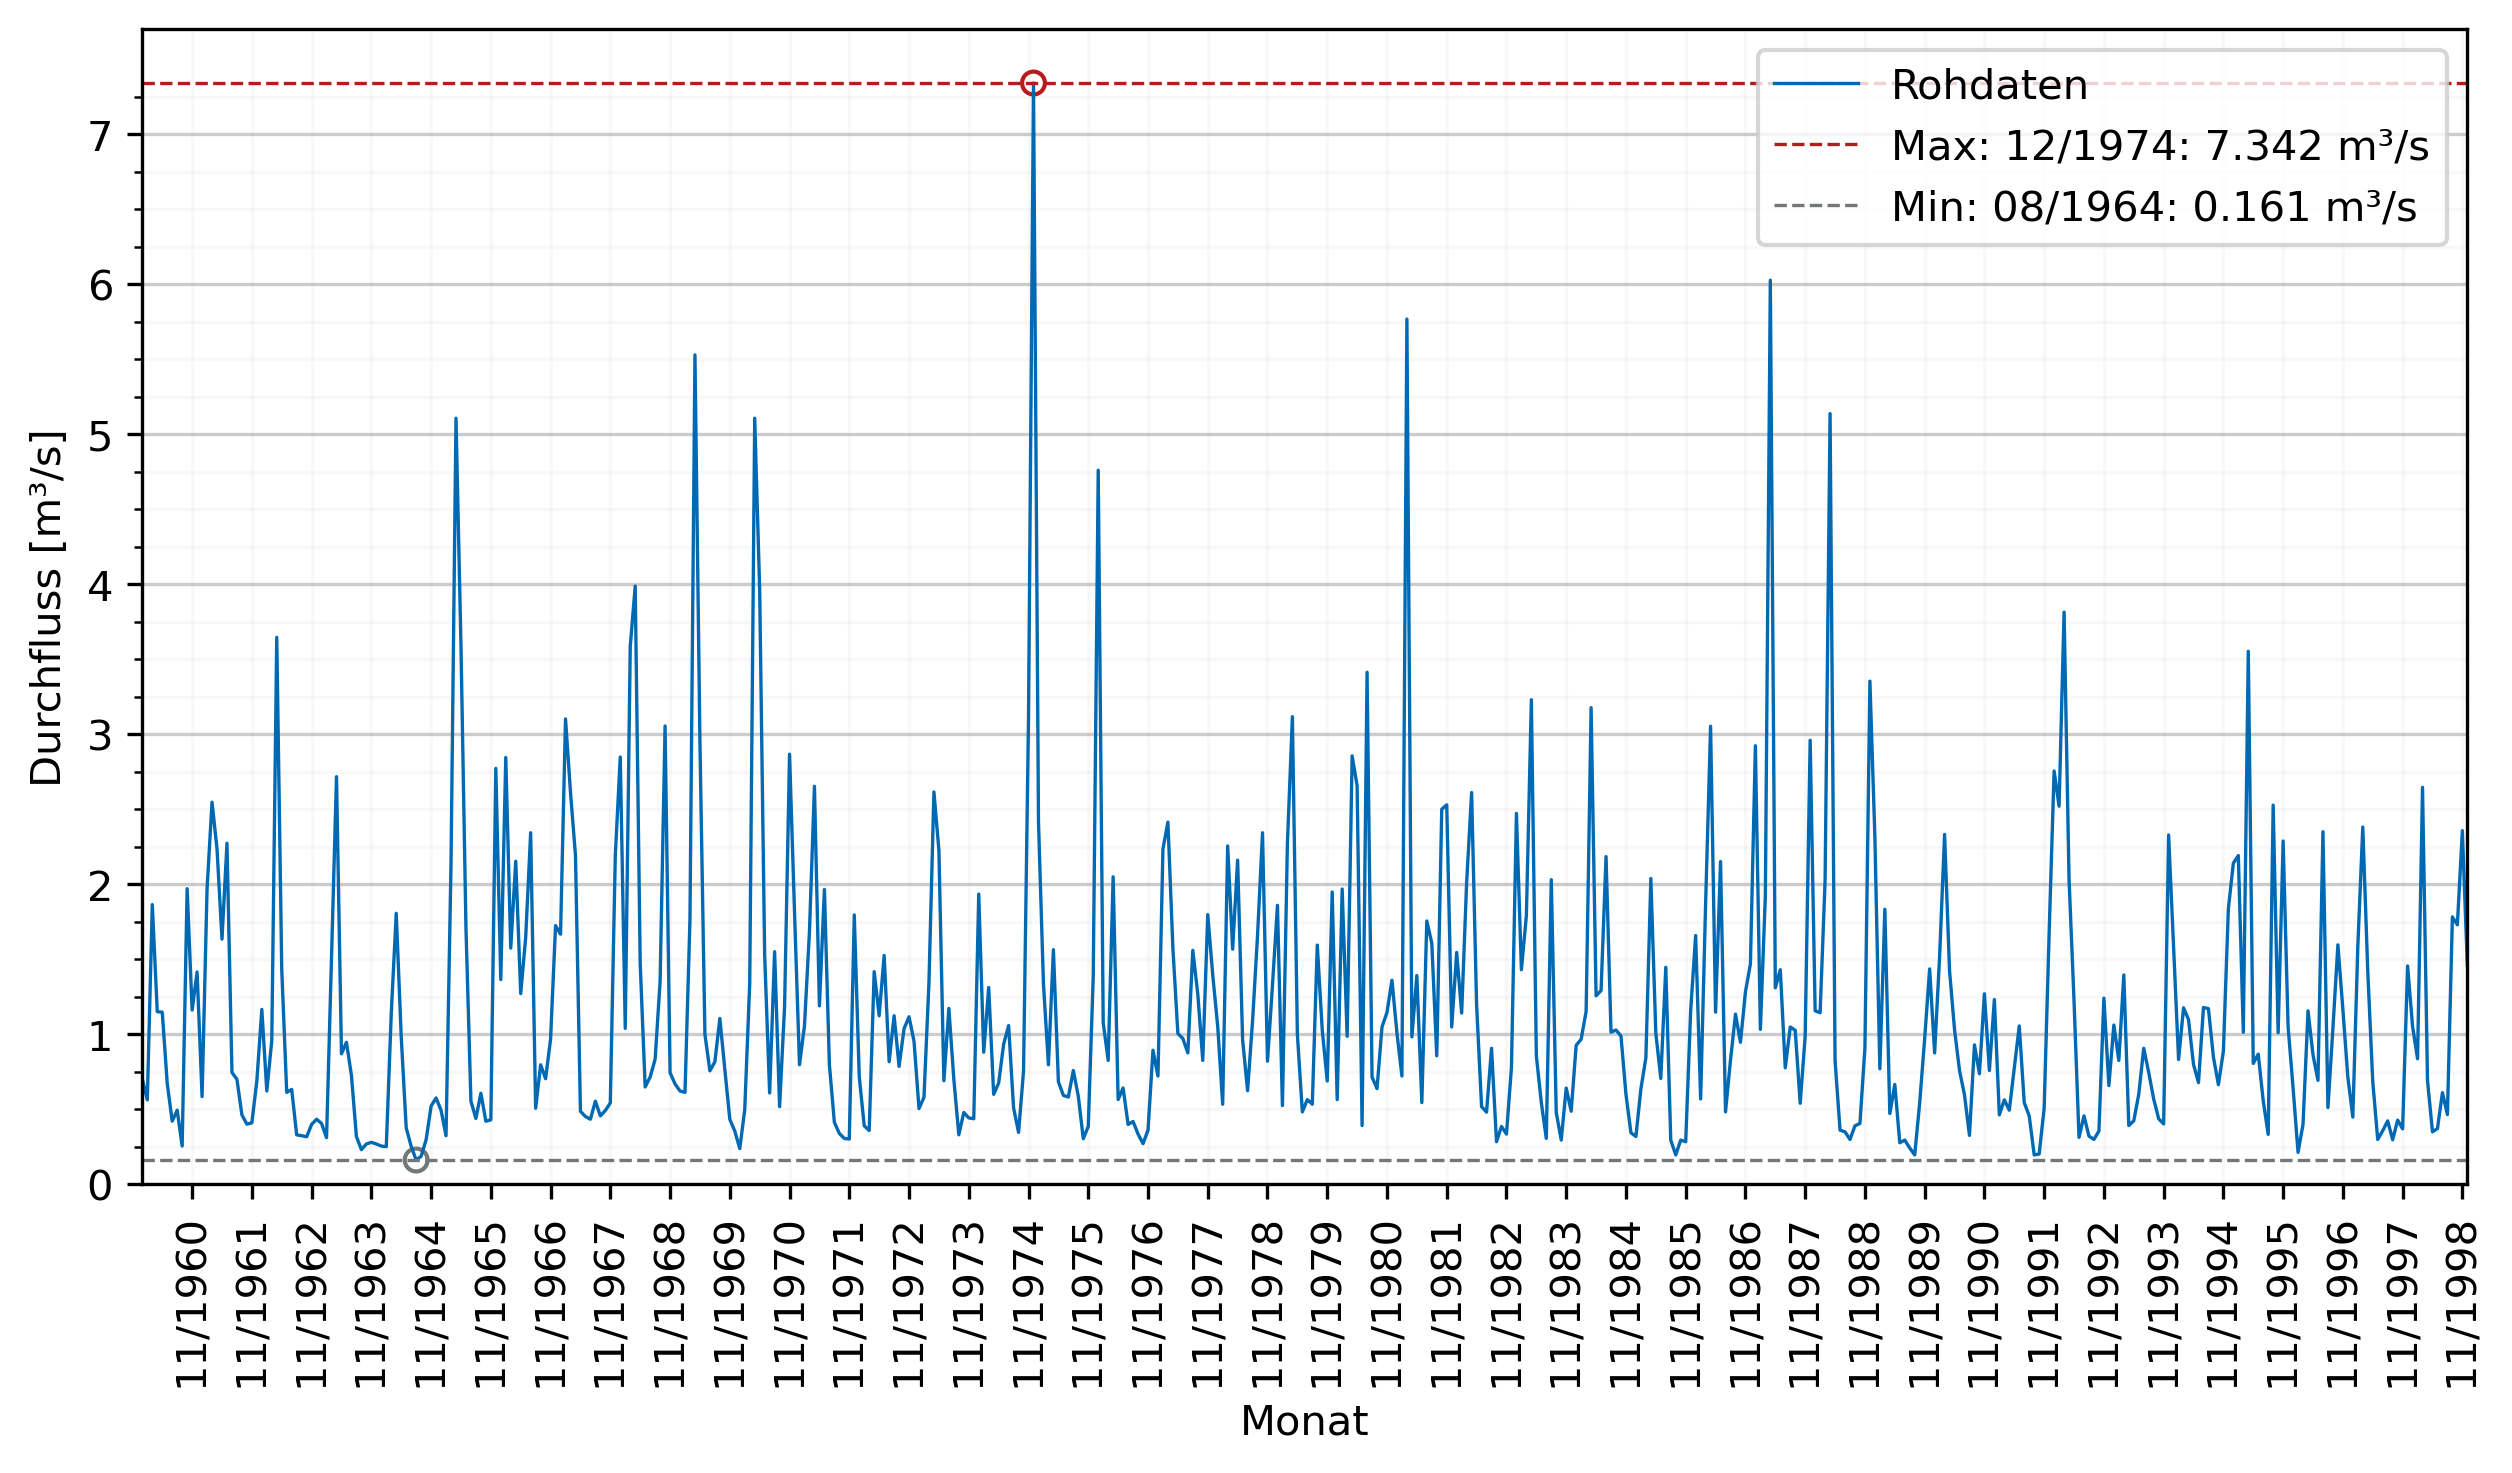
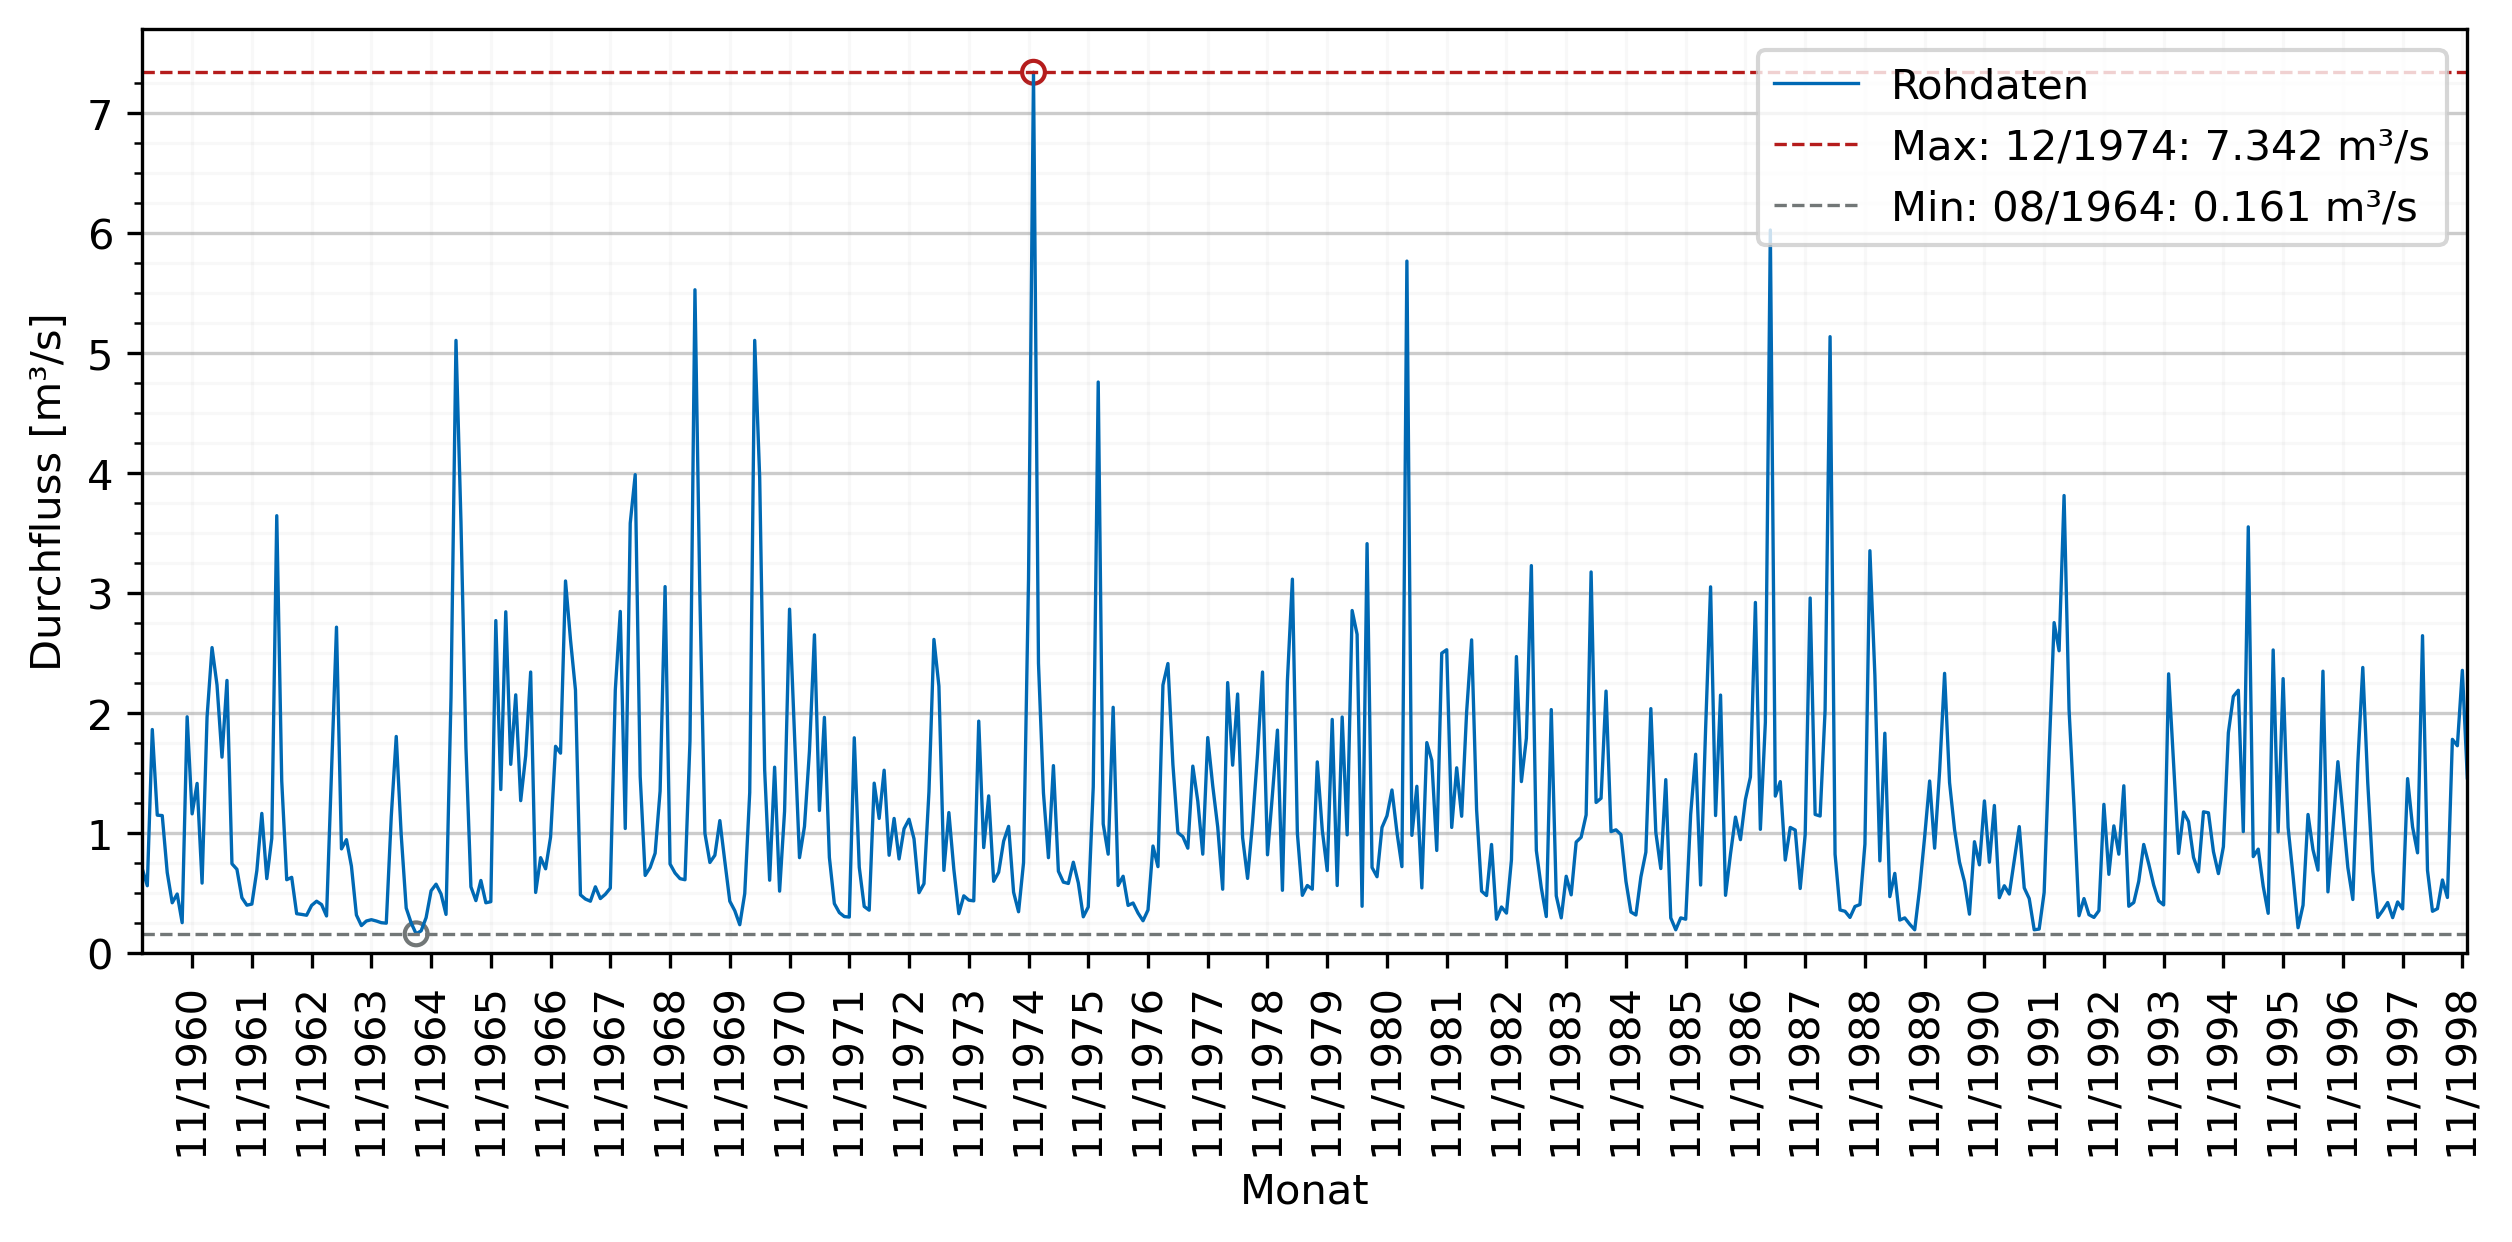
Add breakpoint analysis

Changed region(s): [[0.0, 0.2448, 0.9936, 0.9791], [0.0311, 0.0, 0.9936, 0.2142], [0.8694, 0.4589, 0.9005, 0.5201]]

diff --git a/code/utils/plotting.py b/code/utils/plotting.py
@@ -9,7 +9,8 @@ from utils.statistics import hyd_years, max_val, max_val_month, min_val, \
     min_val_month, hyd_years, monthly_autocorr, yearly_autocorr, \
     monthly_mean, yearly_mean, monthly_variance, yearly_variance, \
     monthly_skewness, yearly_skewness, confidence_interval, \
-        linreg, moving_average, calc_spectrum, get_dominant_frequency
+    linreg, moving_average, calc_spectrum, get_dominant_frequency, \
+    pettitt_test
 
 
 def plot_raw(df: pd.DataFrame):
@@ -20,7 +21,7 @@ def plot_raw(df: pd.DataFrame):
     min_value = min_val(df)
     min_month = min_val_month(df)
 
-    plt.figure(figsize=(10, 5))
+    plt.figure(figsize=(10, 4))
     plt.plot(df["Monat"], df["Durchfluss_m3s"], 
                 c=tu_mediumblue, linewidth=0.8, label="Rohdaten")
     plt.axhline(y=max_value, c=tu_red, linestyle="--", linewidth=0.8, 
@@ -62,6 +63,55 @@ def plot_dsk(test_cumsum: np.ndarray, ref_cumsum: np.ndarray):
     plt.ylim(bottom=0)
     # plt.legend(loc="upper left", bbox_to_anchor=(-0.02, 1.15), frameon=False)
     plt.savefig(image_path+f"{pegelname}_dsk.png", dpi=300, bbox_inches="tight")
+
+def plot_breakpoint(df: pd.DataFrame):
+    res = pettitt_test(df)
+
+    mean_1, mean_2 = res.avg
+    
+    plt.figure(figsize=(10, 4))
+    
+    # plot raw data
+    plt.plot(df["Monat"], df["Durchfluss_m3s"], alpha=0.4,
+                c=tu_mediumblue, linewidth=0.8, label="Rohdaten")
+
+    # plot breakpoint    
+    plt.axvline(x=res.cp, c="green", linestyle="--", linewidth=0.8,
+                label=f"Breakpoint: {df['Monat'].iloc[res.cp]}")
+    plt.text(res.cp-5, 6.05, df["Monat"].iloc[res.cp], rotation=90, 
+             va="bottom", ha="center", fontsize=8, color="green")
+    
+    # plot mean before breakpoint
+    x = np.arange(0, res.cp, 1)
+    y = mean_1 * np.ones(len(x))
+    plt.plot(x, y, c=tu_red, linestyle="--", linewidth=0.8)
+    plt.scatter(0, mean_1, marker="o",
+                facecolors='none', edgecolors=tu_red, s=30)
+    plt.scatter(res.cp, mean_1, marker="o",
+                facecolors='none', edgecolors=tu_red, s=30)
+    plt.text(int(res.cp/2), mean_1+0.05, f"{mean_1:.2f}", ha="center", 
+             va="bottom", fontsize=8, color=tu_red)
+    
+    # plot mean after breakpoint
+    x = np.arange(res.cp, len(df)+1, 1)
+    y = mean_2 * np.ones(len(x))
+    plt.plot(x, y, c=tu_red, linestyle="--", linewidth=0.8)
+    plt.scatter(res.cp, mean_2, marker="o",
+                facecolors='none', edgecolors=tu_red, s=30)
+    plt.scatter(len(df), mean_2, marker="o",
+                facecolors='none', edgecolors=tu_red, s=30)
+    plt.text(int((len(df)-res.cp)/2+res.cp), mean_2+0.05, f"{mean_2:.2f}", ha="center",
+                va="bottom", fontsize=8, color=tu_red)
+    
+    plt.ylabel("Durchfluss [m³/s]")
+    plt.xticks(df["Monat"][::12], rotation=90)
+    plt.yticks(np.arange(0, 8, 1), minor=False)
+    plt.yticks(np.arange(0, 8, 0.25), minor=True)
+    plt.grid(which="major", axis="x", color="grey", alpha=0.05)
+    plt.grid(which="major", axis="y", color="grey", alpha=0.40)
+    plt.grid(which="minor", axis="y", color="grey", alpha=0.05)
+    plt.legend(loc="upper right")
+    plt.savefig(image_path+f"{pegelname}_breakpoint.png", dpi=300, bbox_inches="tight")
 
 def plot_trend(df: pd.DataFrame):
     """Plot trend analysis summary."""

diff --git a/code/main.py b/code/main.py
@@ -7,7 +7,8 @@ from utils.data_structures import read_data, check_path
 import utils.statistics as st
 from utils.consistency_check import missing_values, missing_dates, duplicates
 from utils.plotting import plot_raw, plot_hist, plot_trend, plot_components, \
-    plot_spectrum, plot_sin_waves, plot_characteristics, plot_acf, plot_dsk
+    plot_spectrum, plot_sin_waves, plot_characteristics, plot_acf, plot_dsk, \
+    plot_breakpoint
 
 
 check_path(image_path)
@@ -26,20 +27,37 @@ print("\nKonsistenzprüfung")
 print("\tFehlwerte:", missing_values(df))
 print("\tFehlende Zeitschritte:", missing_dates(df))
 print("\tDuplikate:", duplicates(df))
-print("\tAusreißertest (IQR-Kriterium): ", st.outlier_test_iqr(df), len(st.outlier_test_iqr(df)))
-print("\tAusreißertest (z-score): ", st.outlier_test_zscore(df), len(st.outlier_test_zscore(df)))
-print("\tAusreißertest (Grubbs): ", st.outlier_test_grubbs(df), len(st.outlier_test_grubbs(df)))
+print(
+    "\tAusreißertest (IQR-Kriterium): ", 
+    "obere Schranke:", st.outlier_test_iqr(df)[0],
+    "untere Schranke:", st.outlier_test_iqr(df)[1],
+    "Ausreißer:", st.outlier_test_iqr(df)[2]
+    )
+print(
+    "\tAusreißertest (z-score): ", 
+    "obere Schranke:", st.outlier_test_zscore(df)[0],
+    "untere Schranke:", st.outlier_test_zscore(df)[1],
+    "Ausreißer:", st.outlier_test_zscore(df)[2]
+    )
+print(
+    "\tAusreißertest (Grubbs): ", 
+    "Schranke:", st.outlier_test_grubbs(df)[0],
+    "Ausreißer:", st.outlier_test_grubbs(df)[1]
+    )
 
 # -----------------------------------------
 #           Homogenity check
 # -----------------------------------------
-
+print("\nHomogenitätsprüfung")
 klingenthal = read_data("data/Daten_Klingenthal_raw.txt")
 rothenthal = read_data("data/others/Daten_Rothenthal.txt")
-test_cumsum, ref_cumsum = st.double_sum(klingenthal["Durchfluss_m3s"], rothenthal["Durchfluss_m3s"])
-plot_dsk(test_cumsum, ref_cumsum)
-
-# TODO: #7 double sum analysis
+kling, roth = st.double_sum(klingenthal["Durchfluss_m3s"], rothenthal["Durchfluss_m3s"])
+plot_dsk(kling, roth)
+print(
+    "\tPettitt test:", st.pettitt_test(df),
+    "Location:", df.iloc[st.pettitt_test(df).cp]   
+    )
+plot_breakpoint(df)
 
 # -----------------------------------------
 #           Stationarity check

diff --git a/code/utils/statistics.py b/code/utils/statistics.py
@@ -2,6 +2,7 @@ import scipy
 import numpy as np
 import pandas as pd
 import pymannkendall as mk
+import pyhomogeneity as hg
 
 
 # -----------------------------------------
@@ -13,30 +14,32 @@ def outlier_test_iqr(df: pd.DataFrame, var: str = "Durchfluss_m3s"):
     q1 = df[var].quantile(q=0.25, interpolation="nearest")
     q3 = df[var].quantile(q=0.75, interpolation="nearest")
     iqr = q3 - q1
-    print("Schranke:", q1 - 1.5*iqr, q3 + 1.5*iqr)
-    return df.loc[(df[var] < q1 - 1.5*iqr) | (df[var] > q3 + 1.5*iqr)]
+    g_upper = q3 + 1.5*iqr
+    g_lower = q1 - 1.5*iqr
+    return g_upper, g_lower, df.loc[(df[var] < g_lower) | (df[var] > g_upper)]
 
 def outlier_test_zscore(df: pd.DataFrame, var: str = "Durchfluss_m3s"):
     """Returns a list of outliers using the z-score method."""
     g_upper = df[var].mean() + 3*df[var].std()
     g_lower = df[var].mean() - 3*df[var].std()
-    print("Schranke:", g_lower, g_upper)
-    # return rows below and above the threshold
-    return df.loc[(df[var] < g_lower) | (df[var] > g_upper)]
+    return g_upper, g_lower, df.loc[(df[var] < g_lower) | (df[var] > g_upper)]
 
 def outlier_test_grubbs(df: pd.DataFrame, var: str = "Durchfluss_m3s"):
     """Returns a list of outliers using the Grubbs method."""
     max_diff = np.max(np.abs(df[var] - df[var].mean()))
     s = np.std(df[var])
     g = max_diff / s
-    print("Schranke:", g)
-    return df.loc[df[var] > g]
+    return g, df.loc[df[var] > g]
 
 def double_sum(test_gauge: list[float], ref_gauge: list[float]):
     """Returns a list of double sums."""
     sum_test = np.cumsum(test_gauge)
     sum_ref = np.cumsum(ref_gauge)
     return sum_test, sum_ref
+
+def pettitt_test(df: pd.DataFrame, var: str = "Durchfluss_m3s"):
+    return hg.pettitt_test(x=df[var], alpha=0.05)
+    
 
 # -----------------------------------------
 #           Primary statistics
